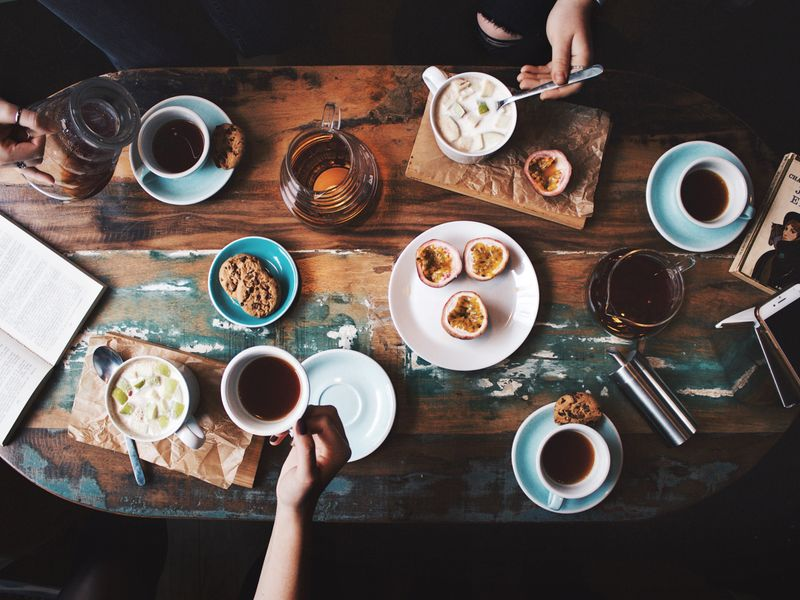
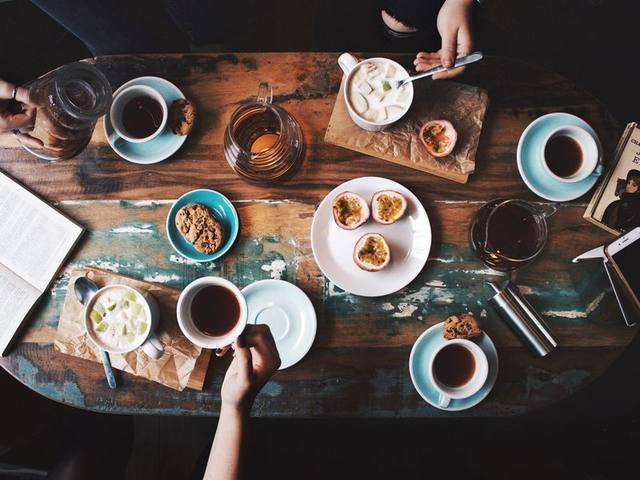
Speed up SEVER: WebP images, smaller assets, font trim, hero preload

diff --git a/index.html b/index.html
@@ -7,7 +7,8 @@
   <meta name="description" content="SEVER — кофейный бар. Меню, зал, бронь. Демо TUMBLER." />
   <link rel="preconnect" href="https://fonts.googleapis.com" />
   <link rel="preconnect" href="https://fonts.gstatic.com" crossorigin />
-  <link href="https://fonts.googleapis.com/css2?family=Manrope:wght@400;500;600;700;800&display=swap" rel="stylesheet" />
+  <link href="https://fonts.googleapis.com/css2?family=Manrope:wght@500;700;800&display=swap" rel="stylesheet" />
+  <link rel="preload" as="image" href="images/hero.webp" type="image/webp" />
   <link rel="stylesheet" href="styles.css" />
 </head>
 <body>
@@ -15,7 +16,10 @@
 
   <div class="portal">
     <div class="portal-bg">
-      <img src="images/hero.jpg" alt="" width="1920" height="1080" />
+      <picture>
+        <source srcset="images/hero.webp" type="image/webp" />
+        <img src="images/hero.jpg" alt="" width="1200" height="800" fetchpriority="high" decoding="async" />
+      </picture>
       <div class="portal-veil"></div>
     </div>
 
@@ -65,7 +69,10 @@
         <p>Маленький бар на Патриарших. Эспрессо, фильтр, завтраки до полудня. Без франшизной сети — один зал, своё зерно, свои руки.</p>
       </div>
       <div class="block-media">
-        <img src="images/barista.jpg" alt="Бариста за стойкой" width="1000" height="1200" loading="lazy" />
+        <picture>
+          <source srcset="images/barista.webp" type="image/webp" />
+          <img src="images/barista.jpg" alt="Бариста за стойкой" width="640" height="782" loading="lazy" decoding="async" />
+        </picture>
       </div>
     </section>
 
@@ -83,7 +90,10 @@
 
       <div class="menu-board" id="tab-coffee">
         <article class="menu-card featured">
-          <img src="images/espresso.jpg" alt="" width="640" height="480" loading="lazy" />
+          <picture>
+            <source srcset="images/espresso.webp" type="image/webp" />
+            <img src="images/espresso.jpg" alt="" width="640" height="480" loading="lazy" decoding="async" />
+          </picture>
           <div>
             <p class="tag">Хит утра</p>
             <h3>Фильтр дня</h3>
@@ -103,7 +113,10 @@
 
       <div class="menu-board" id="tab-food" hidden>
         <article class="menu-card featured">
-          <img src="images/breakfast.jpg" alt="" width="640" height="480" loading="lazy" />
+          <picture>
+            <source srcset="images/breakfast.webp" type="image/webp" />
+            <img src="images/breakfast.jpg" alt="" width="640" height="480" loading="lazy" decoding="async" />
+          </picture>
           <div>
             <p class="tag">До 12:00</p>
             <h3>Скрэмбл на тосте</h3>
@@ -122,7 +135,10 @@
 
       <div class="menu-board" id="tab-drink" hidden>
         <article class="menu-card featured">
-          <img src="images/matcha.jpg" alt="" width="640" height="480" loading="lazy" />
+          <picture>
+            <source srcset="images/matcha.webp" type="image/webp" />
+            <img src="images/matcha.jpg" alt="" width="640" height="480" loading="lazy" decoding="async" />
+          </picture>
           <div>
             <p class="tag">Без кофеина</p>
             <h3>Матча</h3>
@@ -159,9 +175,18 @@
         </ul>
       </div>
       <div class="space-mosaic">
-        <img class="space-main" src="images/hall1.jpg" alt="Зал кофейни" width="1200" height="800" loading="lazy" />
-        <img src="images/hall2.jpg" alt="Интерьер" width="600" height="450" loading="lazy" />
-        <img src="images/cup.jpg" alt="Чашка кофе" width="600" height="450" loading="lazy" />
+        <picture class="space-main">
+          <source srcset="images/hall1.webp" type="image/webp" />
+          <img src="images/hall1.jpg" alt="Зал кофейни" width="960" height="640" loading="lazy" decoding="async" />
+        </picture>
+        <picture>
+          <source srcset="images/hall2.webp" type="image/webp" />
+          <img src="images/hall2.jpg" alt="Интерьер" width="640" height="480" loading="lazy" decoding="async" />
+        </picture>
+        <picture>
+          <source srcset="images/cup.webp" type="image/webp" />
+          <img src="images/cup.jpg" alt="Чашка кофе" width="640" height="480" loading="lazy" decoding="async" />
+        </picture>
       </div>
     </section>
     <section id="roast" class="block block-alt">
@@ -171,7 +196,10 @@
         <p>Крутим зерно партнёров из Москвы и Питера. На баре всегда есть фильтр дня и эспрессо-бленд. Можно купить пачку 250 г с собой.</p>
       </div>
       <div class="block-media">
-        <img src="images/cup.jpg" alt="Зерно и чашка" width="1000" height="800" loading="lazy" />
+        <picture>
+          <source srcset="images/cup.webp" type="image/webp" />
+          <img src="images/cup.jpg" alt="Зерно и чашка" width="640" height="480" loading="lazy" decoding="async" />
+        </picture>
       </div>
     </section>
 

diff --git a/styles.css b/styles.css
@@ -596,9 +596,26 @@ a {
   min-height: 0;
 }
 
+.space-mosaic picture,
+.block-media picture,
+.menu-card picture,
+.portal-bg picture {
+  display: block;
+  width: 100%;
+  height: 100%;
+}
+
 .space-mosaic .space-main {
   grid-row: 1 / span 2;
   height: 100%;
+}
+
+.space-mosaic picture img,
+.block-media picture img,
+.menu-card picture img {
+  width: 100%;
+  height: 100%;
+  object-fit: cover;
 }
 
 .hours-row {
